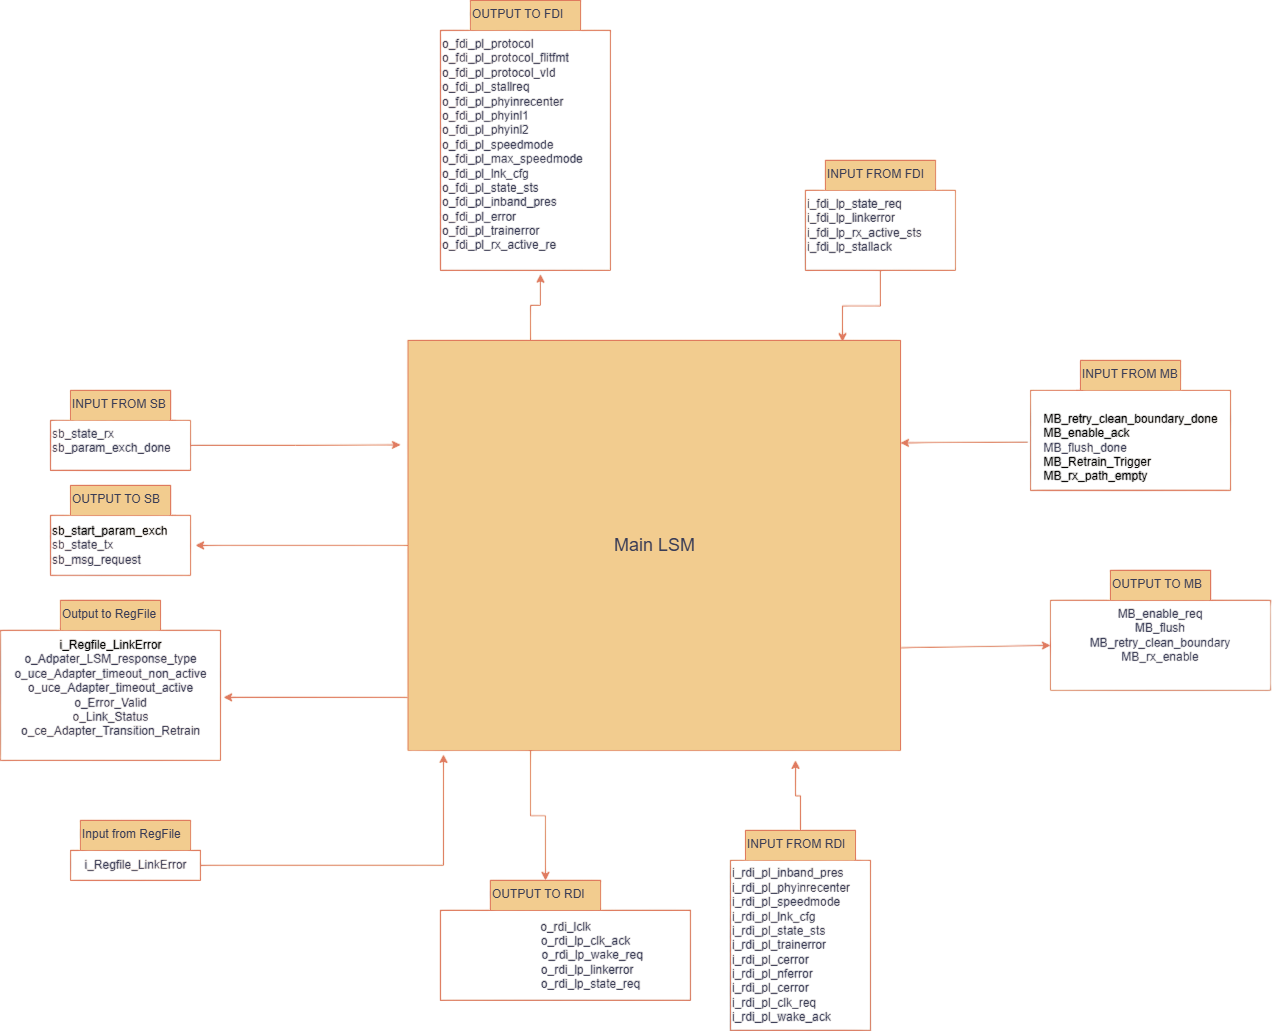
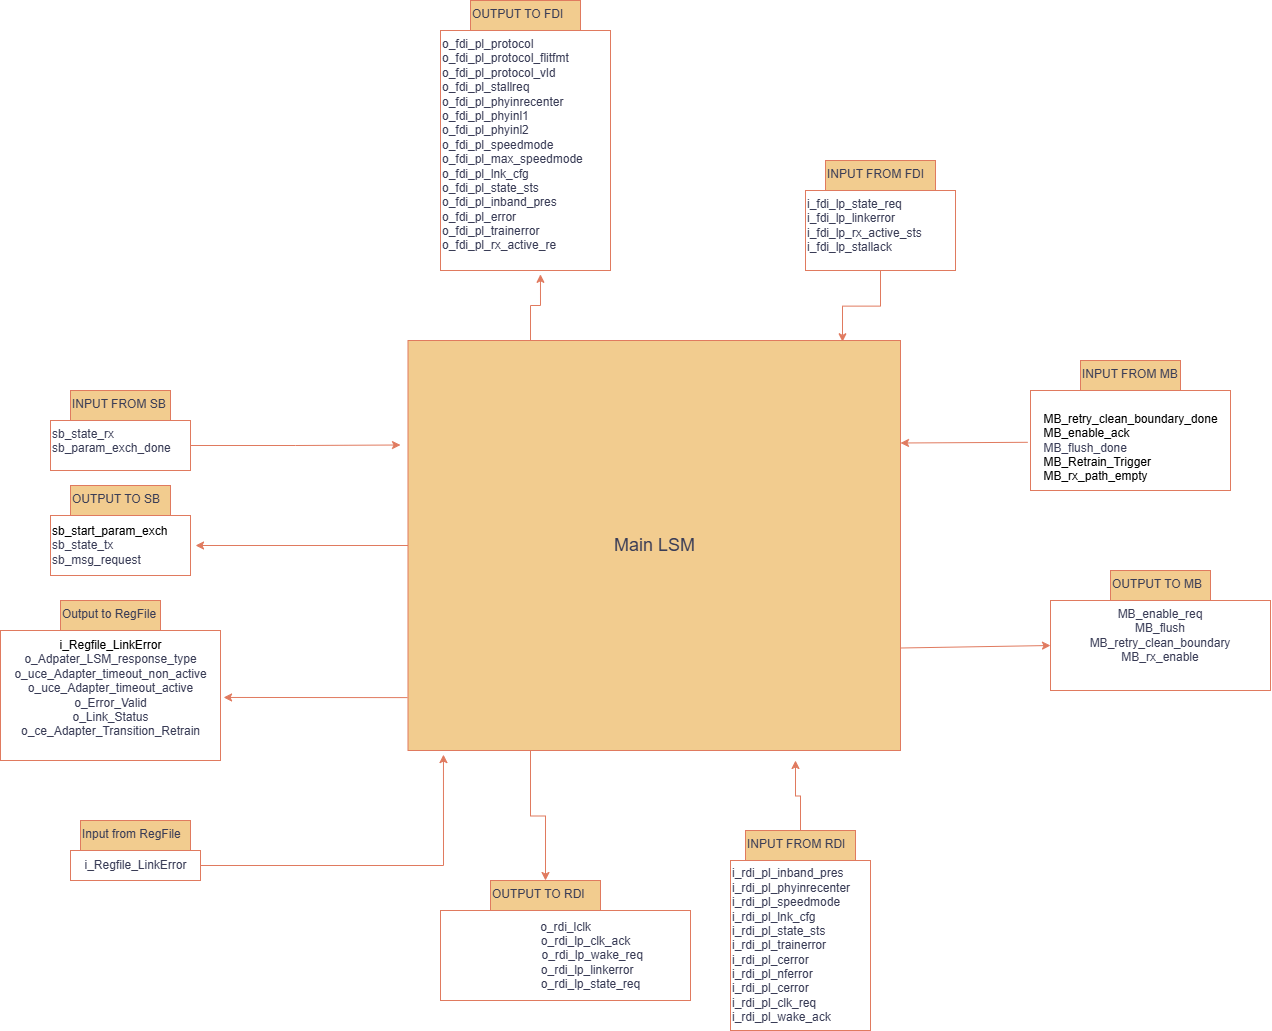
Removed no background image

diff --git a/README.md b/README.md
@@ -3,7 +3,7 @@
 This Repo is a UCIe 3.0 D2D adapter layer impelementation.
 This sepcific Implementation splits the design into 4 main blocks: Mainband, Sideband, ALSM, and Register File.
 
-![UCIe Main Blocks](./rtl/UCIe_Blocks.jpeg)
+![UCIe Main Blocks](UCIe_Blocks.jpeg)
 
 ## Mainband (Ali Nour and Fatma Fawzy)
 